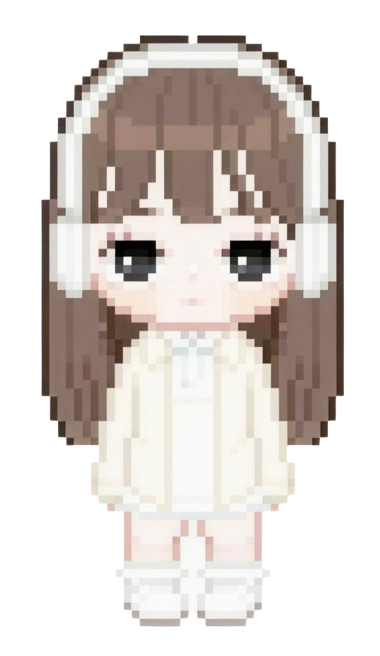
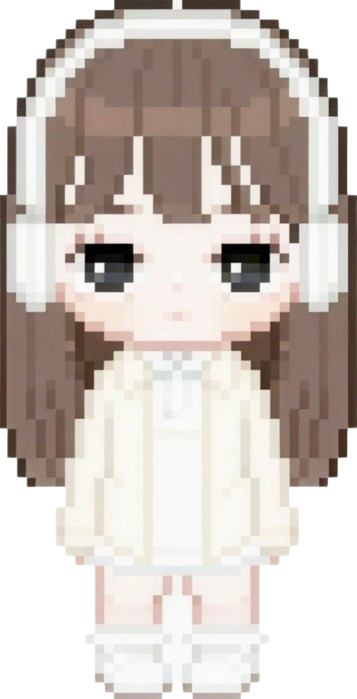
added the bg, finalized falling hearts width in falling direction, adjusted score (still needs changing), also the game over screen which still needs fixing because its not showing right.

diff --git a/Dodge_Game/src/dodge_game/selfMade.java b/Dodge_Game/src/dodge_game/selfMade.java
@@ -2,6 +2,7 @@ package dodge_game;
 
 import java.awt.Color;
 import java.awt.Dimension;
+import java.awt.Font;
 import java.awt.Graphics;
 import java.awt.Rectangle;
 import java.awt.event.ActionEvent;
@@ -17,6 +18,13 @@ import javax.swing.Timer;
 import java.awt.Image;
 import javax.imageio.ImageIO;
 import java.io.File;
+//blur game over img
+import java.awt.image.BufferedImage;
+import java.awt.image.ConvolveOp;
+import java.awt.image.Kernel;
+//game over blur effect
+import java.awt.Graphics2D;
+import java.awt.RenderingHints;
 
 public class selfMade extends JPanel implements ActionListener, KeyListener{
 
@@ -24,13 +32,17 @@ public class selfMade extends JPanel implements ActionListener, KeyListener{
     static final int length = 600;
     
     int playerXPosition = width/2;
-    int playerYPosition = length - 100;
+    int playerYPosition = length - 130;
     
-    //declare image
+    //declare falling heart image
     Image fallingHeart;
+    //declare player image
+    Image playerImage;
+    //declare bg image
+    Image gameBackground;
     
-    int playerWidth = 40;
-    int playerHeight = 40;
+    int playerWidth = 45;
+    int playerHeight = 65;
     
     Timer timer;
     boolean movingLeft = false;
@@ -48,19 +60,32 @@ public class selfMade extends JPanel implements ActionListener, KeyListener{
     
     selfMade(){
         this.setPreferredSize(new Dimension(width,length));
-        this.setBackground(Color.black);
         setFocusable(true);
         this.addKeyListener(this);
         random = new Random();
         blocks = new ArrayList<>();
         timer = new Timer(20, this);
         
-        //image loader
+        //image loader for falling hearts
         try {
             // Using the exact path you provided
             fallingHeart = ImageIO.read(new File("C:\\Users\\Hannah\\Documents\\NetBeansProjects\\dodge-game\\Dodge_Game\\src\\dodge_game\\img\\fallling_hearts.png"));
         } catch (Exception e) {
             System.out.println("Image not found! Check the path.");
+        }
+        
+        //image loader for player
+        try {
+            playerImage = ImageIO.read(new File("C:\\Users\\Hannah\\Documents\\NetBeansProjects\\dodge-game\\Dodge_Game\\src\\dodge_game\\img\\player.png"));
+        } catch (Exception e) {
+            System.out.println("Player image not found! Check the path.");
+        }
+        
+        //image loader for bg
+        try {
+            gameBackground = ImageIO.read(new File("C:\\Users\\Hannah\\Documents\\NetBeansProjects\\dodge-game\\Dodge_Game\\src\\dodge_game\\img\\game_bg.jpg"));
+        } catch (Exception e) {
+            System.out.println("Background image not found! Check the path.");
         }
         
         timer.start();
@@ -77,32 +102,99 @@ public class selfMade extends JPanel implements ActionListener, KeyListener{
         }
     }
     
-    
+    public Image blurImage(BufferedImage image) {
+        // 1. Create a 3x3 blur matrix (this is the math that does the blurring)
+        float weight = 1.0f / 9.0f;
+        float[] matrix = {
+            weight, weight, weight,
+            weight, weight, weight,
+            weight, weight, weight
+        };
+
+        // 2. Create the filter
+        Kernel kernel = new Kernel(3, 3, matrix);
+        ConvolveOp op = new ConvolveOp(kernel);
+
+        // 3. Apply the blur and return the new image
+        BufferedImage blurredImage = new BufferedImage(
+            image.getWidth(), 
+            image.getHeight(), 
+            BufferedImage.TYPE_INT_ARGB
+        );
+
+        return op.filter(image, blurredImage);
+    }
+     
     @Override
     public void paintComponent(Graphics g){
         super.paintComponent(g);
-        g.setColor(Color.cyan);
-        g.fillRect(playerXPosition, playerYPosition, playerWidth, playerHeight);
-    
-        //block loader
+
+        // 1. Draw Background
+        g.drawImage(gameBackground, 0, 0, width, length, this);
+
+        // 2. Draw Falling Hearts
         for(Rectangle block : blocks){
             g.drawImage(fallingHeart, block.x, block.y, block.width, block.height, this);            
-        }    
+        }  
+
+        // 3. Draw Player
+        g.drawImage(playerImage, playerXPosition, playerYPosition, playerWidth, playerHeight, this);
+
+        // 4. Draw Score
+        g.setColor(Color.LIGHT_GRAY); 
+        g.setFont(new Font("Arial", Font.BOLD, 20));
+        g.drawString("Score: " + score, 450, 80);
+
+        // 5. If the game is over, apply the blur and draw the text
+        if (!running) {
+
+            // Create a BufferedImage to capture the current screen
+            BufferedImage screenshot = new BufferedImage(width, length, BufferedImage.TYPE_INT_ARGB);
+            Graphics2D g2d = screenshot.createGraphics();
+
+            // Draw the current screen onto the screenshot
+            g2d.drawImage(gameBackground, 0, 0, null);
+            for(Rectangle block : blocks){
+                g2d.drawImage(fallingHeart, block.x, block.y, block.width, block.height, null);            
+            }
+            g2d.drawImage(playerImage, playerXPosition, playerYPosition, playerWidth, playerHeight, null);
+            g2d.dispose();
+
+            // Blur the screenshot
+            Image blurredScreen = blurImage(screenshot);
+
+            // Draw the blurred screenshot OVER the sharp screen
+            g.drawImage(blurredScreen, 0, 0, width, length, this);
+
+            // Draw Game Over Text on top of the blur
+            g.setColor(Color.RED);
+            g.setFont(new Font("Arial", Font.BOLD, 50));
+            g.drawString("GAME OVER", 150, 280);
+
+            g.setColor(Color.WHITE);
+            g.setFont(new Font("Arial", Font.BOLD, 30));
+            g.drawString("Final Score: " + score, 200, 330);
+
+            g.setFont(new Font("Arial", Font.PLAIN, 20));
+            g.drawString("Press ENTER to restart", 190, 400);
+        }
     }
     
     @Override
     public void actionPerformed(ActionEvent e) {
         
         if(running){
-            if(movingLeft && playerXPosition > 0){
+            if(movingLeft && playerXPosition > 35){
                 playerXPosition -= playerSpeed;
             }
-            if(movingRight && playerXPosition < width - playerWidth){
+            if(movingRight && playerXPosition < width - playerWidth - 35){
                 playerXPosition += playerSpeed;
             }
             tickCount++;
             if(tickCount % 25 == 0){
-                int randomX = random.nextInt(width - blockSize);
+                int minX = 35;
+                int maxX = width - blockSize - 35;
+                int randomX = minX + random.nextInt(maxX - minX);
                 blocks.add(new Rectangle(randomX, 0, blockSize, blockSize));
             }
             
